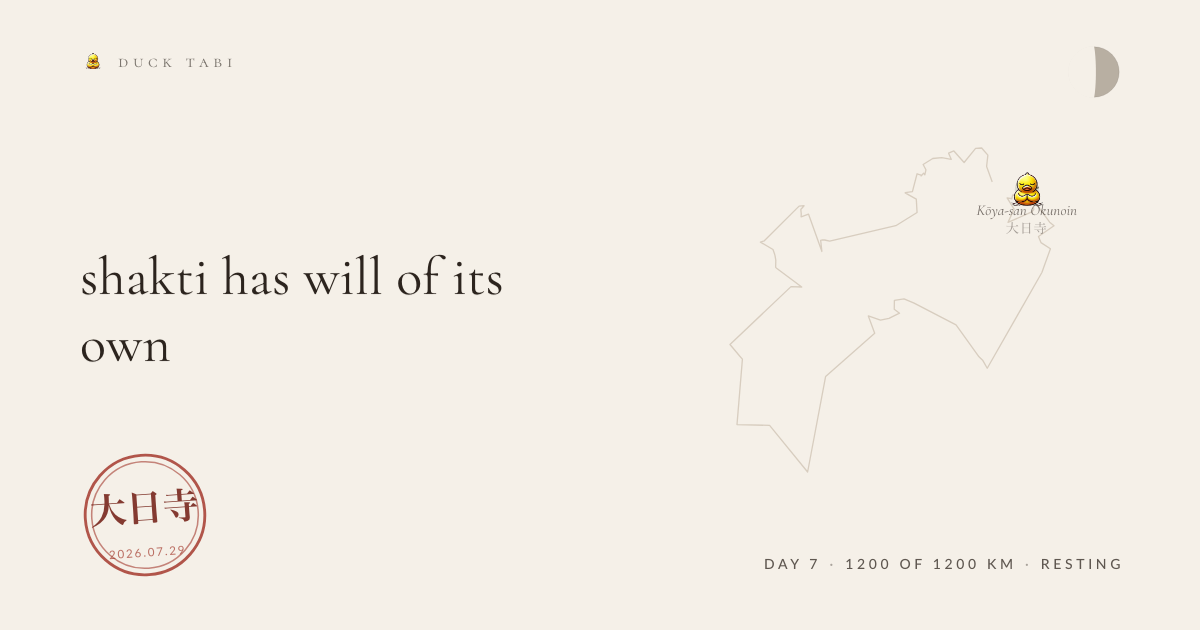
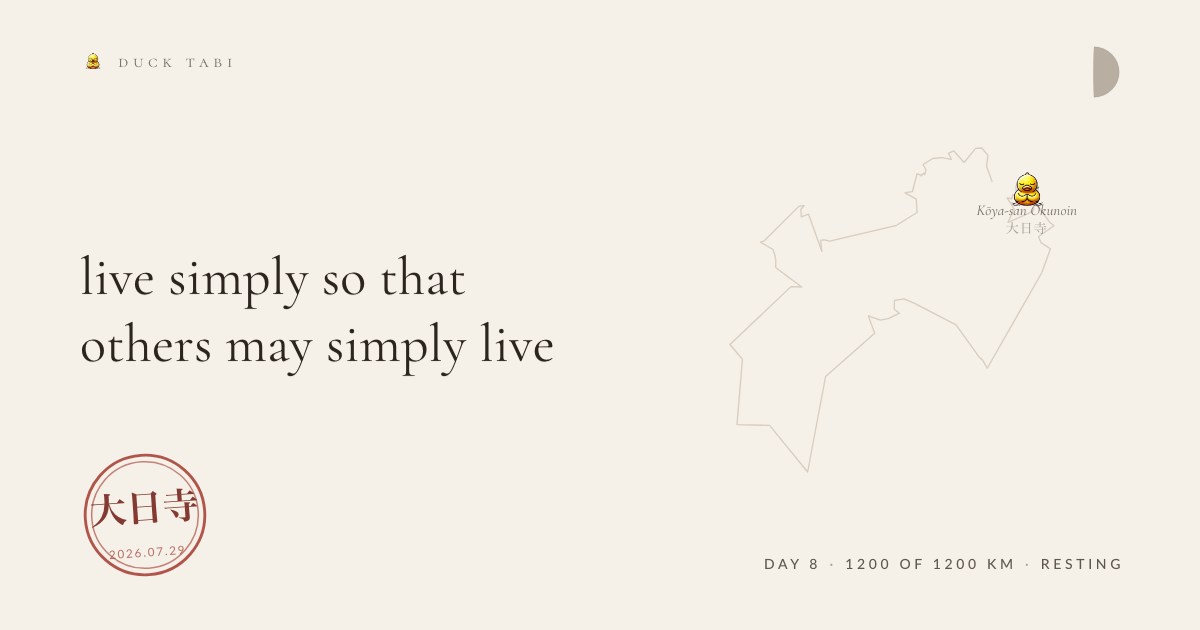
the duck walks

Changed region(s): [[0.0617, 0.3921, 0.4317, 0.4825], [0.0925, 0.5127, 0.4625, 0.573]]

diff --git a/entries/2026-08-06-meditation.md b/entries/2026-08-06-meditation.md
@@ -1,0 +1,14 @@
+---
+date: '2026-08-06'
+route: shikoku-88
+stage: 4
+stageName: Kōya-san Okunoin
+coords: [135.589, 34.2167]
+kind: meditation
+glyph: 🌾
+weather: overcast, 23°C
+kmFromStart: 9
+heardId: d3339782
+---
+
+live simply so that others may simply live
